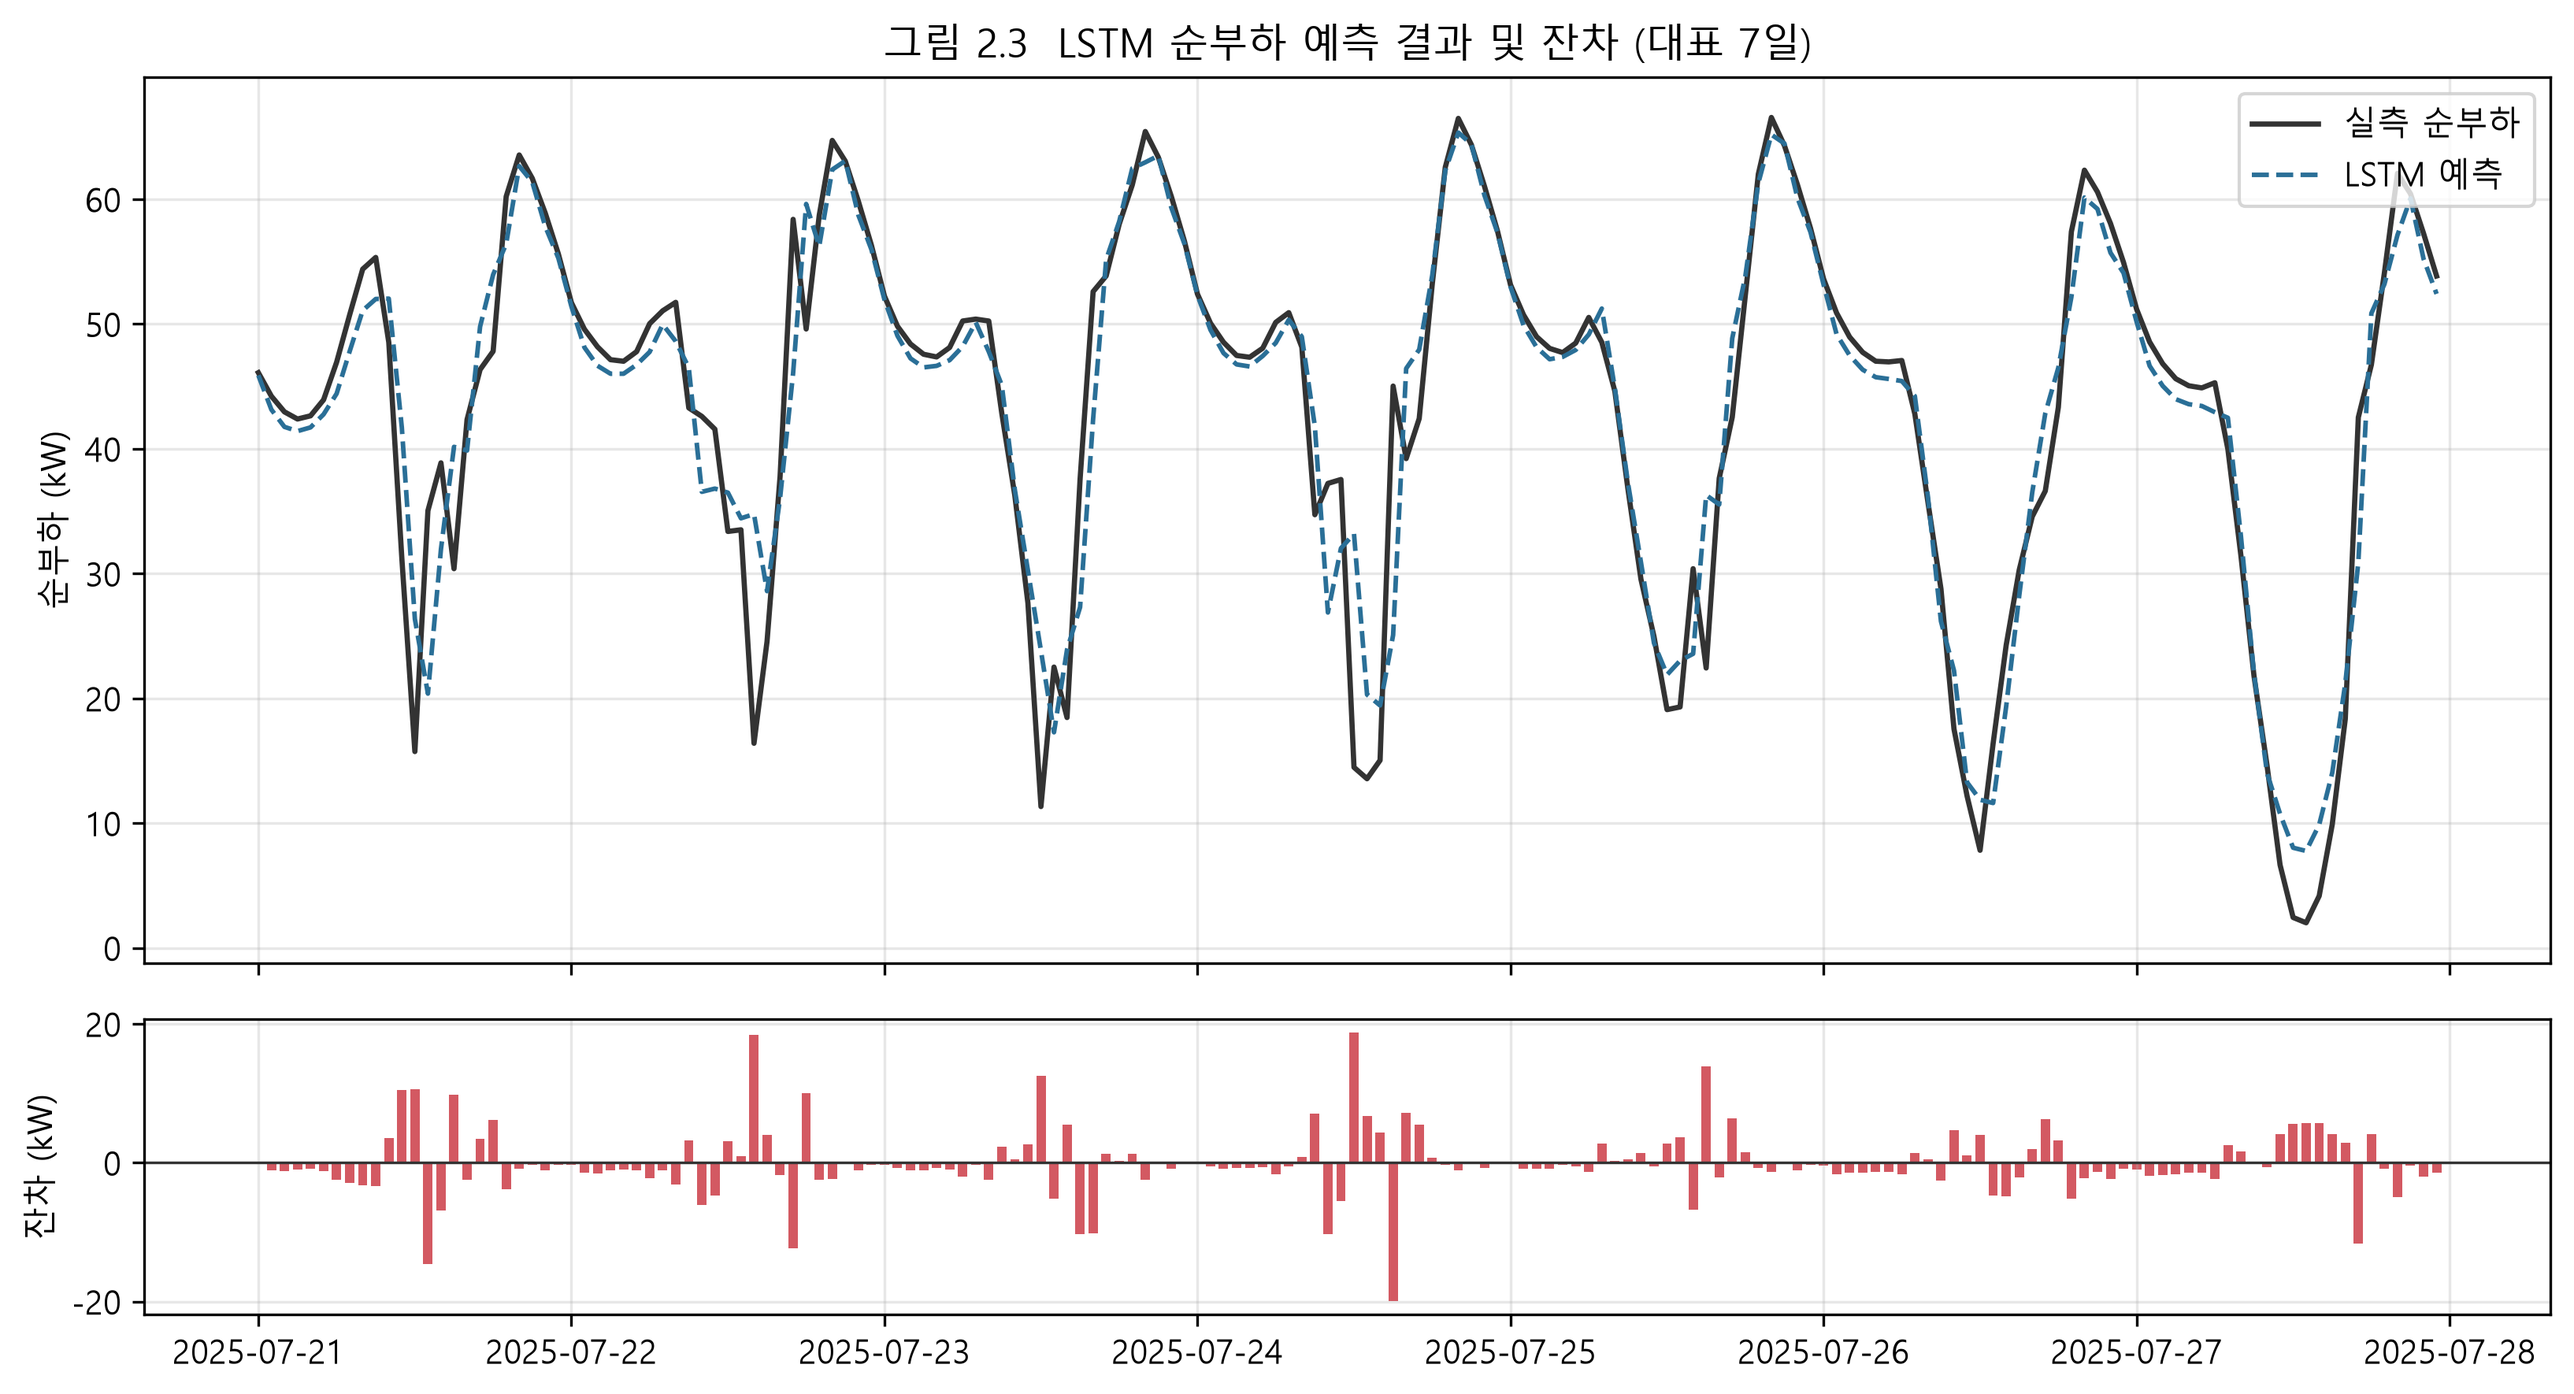
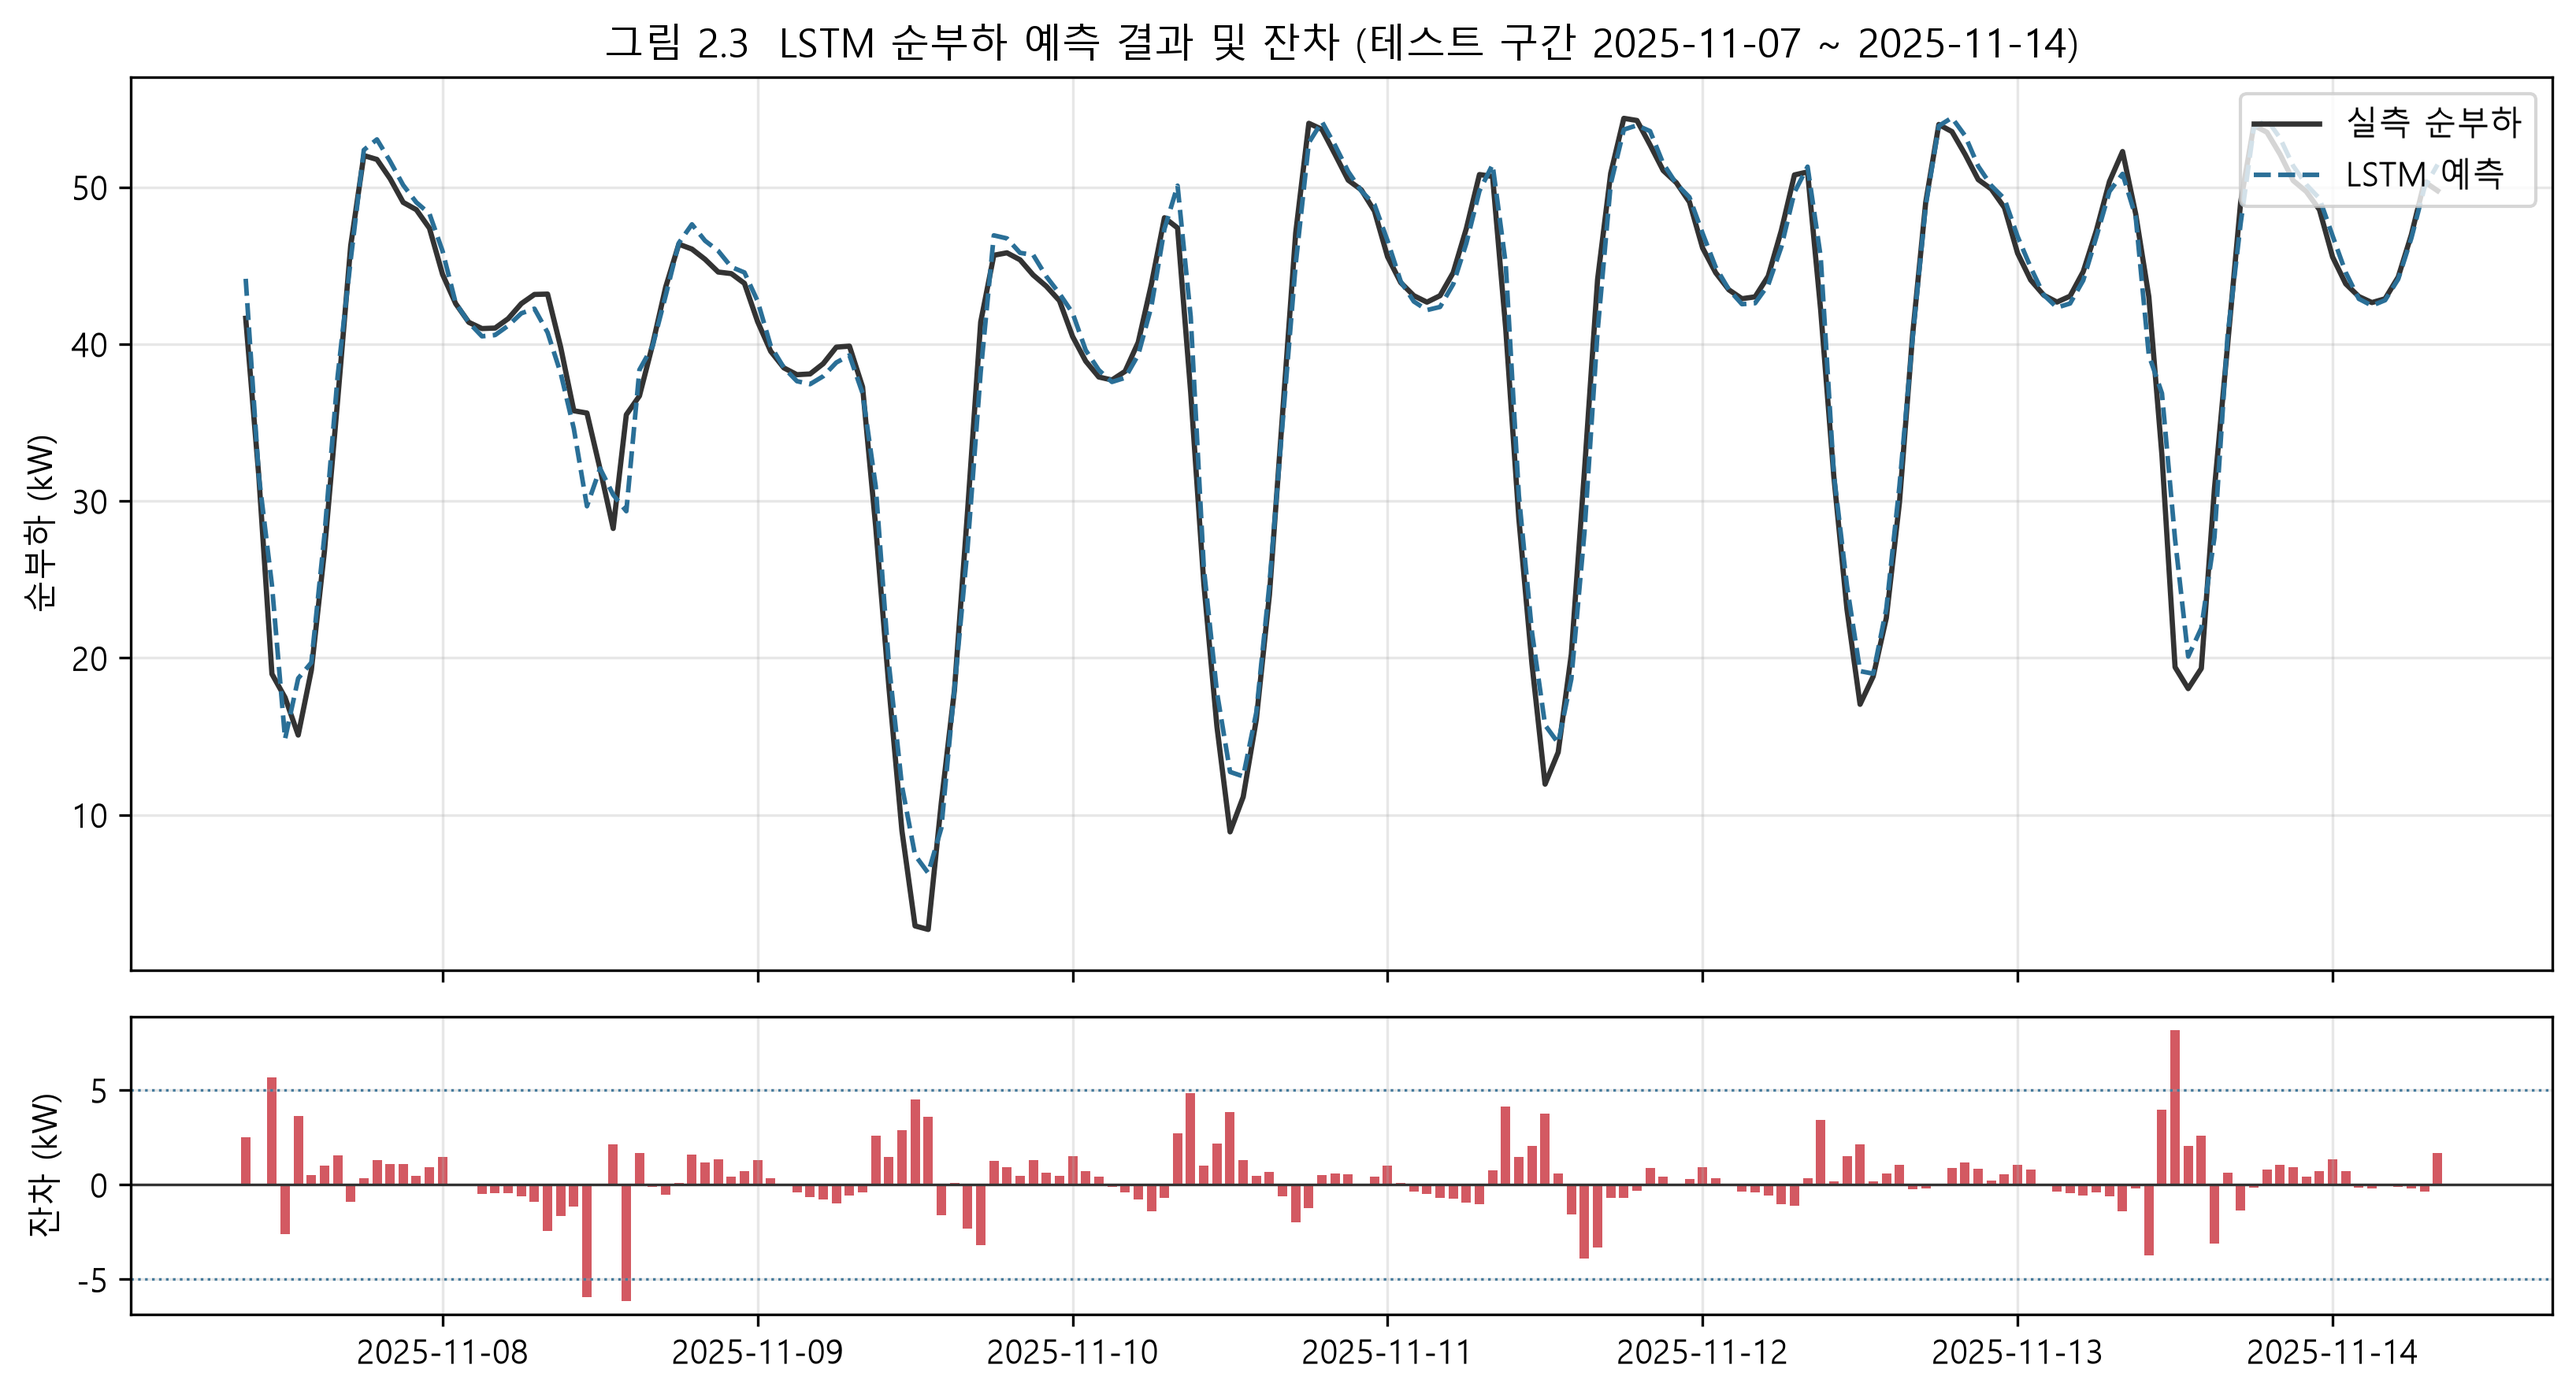
논문그림 B-1~B-4 갱신 — fig 2.3(테스트구간)·2.8·2.9·2.10
- fig 2.3: 대표주간 → 테스트 구간(뒤 15%) 7일(2025-11-07~14) + 날짜 캡션 +
  잔차 ±5kW 참고선. 잔차 ±5kW 이내 97.6%.
- fig 2.8·2.9: 피크일(일평균 부하 최고) 2025-08-21 동일 날짜 보장(코드).
- fig 2.10: 2.8·2.9 와 같은 주간(피크일+7일), 권장구간 음영 + 10/90% 한계선.
확정 그림(2.4~2.7·2.11·2.12)은 미변경.

diff --git a/make_figures.py b/make_figures.py
@@ -58,20 +58,25 @@ def fig_2_3(base):
     sim = base.iloc[SEQ:].reset_index(drop=True)
     true = sim['net_load_kw'].values
     ts = sim['timestamp']
-    # 일평균 부하 최고 주간의 7일
-    d0 = 24 * 200
+    # [B-1] 테스트 구간(뒤 15%) 시작에서 7일
+    d0 = int(len(sim) * 0.85)
     sl = slice(d0, d0 + 24 * 7)
+    day0 = pd.Timestamp(ts.iloc[d0]).date()
+    day1 = pd.Timestamp(ts.iloc[d0 + 24 * 7 - 1]).date()
+    resid = pred[sl] - true[sl]
+    within5 = float((np.abs(resid) <= 5).mean() * 100)
     fig, ax = plt.subplots(2, 1, figsize=(11, 6), sharex=True,
                            gridspec_kw={'height_ratios': [3, 1]})
     ax[0].plot(ts[sl], true[sl], color='#333', lw=1.6, label='실측 순부하')
     ax[0].plot(ts[sl], pred[sl], color=COLORS['LSTM'], lw=1.4, ls='--', label='LSTM 예측')
     ax[0].set_ylabel('순부하 (kW)'); ax[0].legend(loc='upper right'); ax[0].grid(alpha=.3)
-    ax[0].set_title('그림 2.3  LSTM 순부하 예측 결과 및 잔차 (대표 7일)')
-    resid = pred[sl] - true[sl]
+    ax[0].set_title(f'그림 2.3  LSTM 순부하 예측 결과 및 잔차 (테스트 구간 {day0} ~ {day1})')
     ax[1].bar(ts[sl], resid, width=0.03, color='#c1121f', alpha=.7)
     ax[1].axhline(0, color='#333', lw=.8)
+    ax[1].axhline(5, color='#457b9d', lw=.8, ls=':'); ax[1].axhline(-5, color='#457b9d', lw=.8, ls=':')
     ax[1].set_ylabel('잔차 (kW)'); ax[1].grid(alpha=.3)
     _save(fig, 'fig_2_03.png')
+    print(f"[fig 2.3] 구간 {day0}~{day1}, 잔차 ±5kW 이내 비율 {within5:.1f}%")
 
 
 # ── 2.4 세 방식 성능 비교 (막대) ─────────────────────────────────
@@ -209,14 +214,18 @@ def fig_2_8_2_9(res, day):
 
 
 # ── 2.10 SOC 추세 비교 (7일, 3궤적) ─────────────────────────────
-def fig_2_10(res):
+def fig_2_10(res, day):
+    # [B-4] 2.8·2.9 와 같은 주간(피크일부터 7일)
+    d0 = pd.Timestamp(day); d1 = d0 + pd.Timedelta(days=7)
     fig, ax = plt.subplots(figsize=(11, 4.8))
     for n in ['Rule-Based', 'LSTM', 'GRU']:
-        d = res[n].iloc[24 * 200: 24 * 207]
-        ax.plot(d['timestamp'], d['soc'] * 100, color=COLORS[n], lw=1.5, label=n)
-    ax.axhspan(20, 80, color='#2a9d8f', alpha=.08, label='권장 20~80%')
-    ax.set_ylabel('SOC (%)'); ax.set_ylim(0, 100); ax.grid(alpha=.3); ax.legend()
-    ax.set_title('그림 2.10  SOC 추세 비교 (대표 7일)')
+        d = res[n]
+        w = d[(d['timestamp'] >= d0) & (d['timestamp'] < d1)]
+        ax.plot(w['timestamp'], w['soc'] * 100, color=COLORS[n], lw=1.5, label=n)
+    ax.axhspan(20, 80, color='#2a9d8f', alpha=.10, label='권장 20~80%')
+    ax.axhline(10, color='#c1121f', lw=.6, ls=':'); ax.axhline(90, color='#c1121f', lw=.6, ls=':')
+    ax.set_ylabel('SOC (%)'); ax.set_ylim(0, 100); ax.grid(alpha=.3); ax.legend(loc='upper right')
+    ax.set_title(f'그림 2.10  SOC 추세 비교 ({day} 부터 7일)')
     _save(fig, 'fig_2_10.png')
 
 
@@ -283,7 +292,7 @@ def main():
     fig_2_7()
     day = _peak_day(base)
     fig_2_8_2_9(res, day)
-    fig_2_10(res)
+    fig_2_10(res, day)
     fig_2_11(res)
     fig_2_12()
     print("완료 — figures/ (2.1 시스템구성·2.2 게이트구조는 개념도로 별도 유지)")
